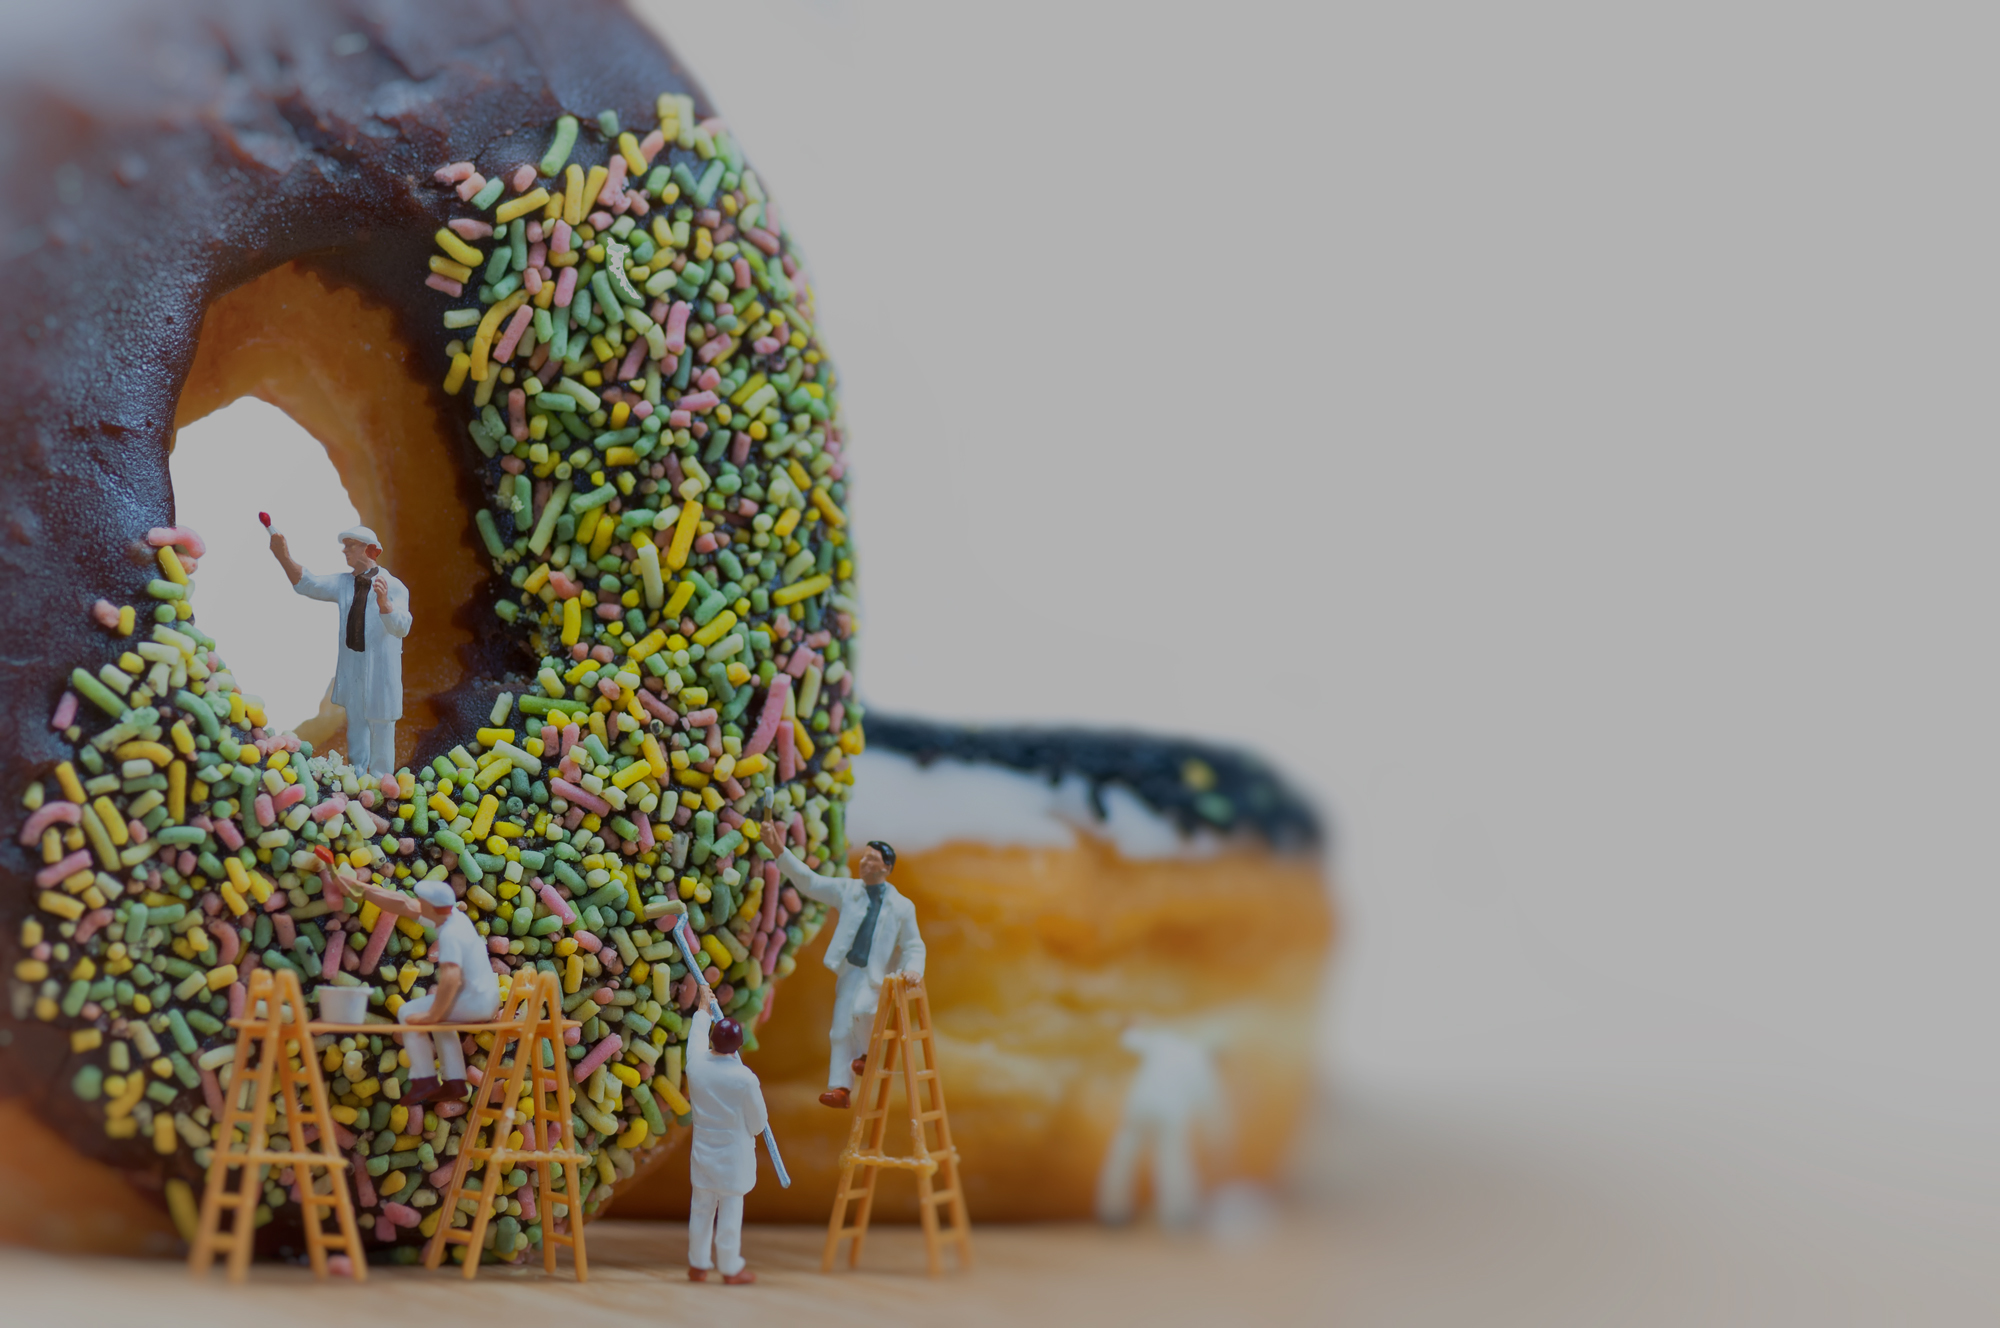
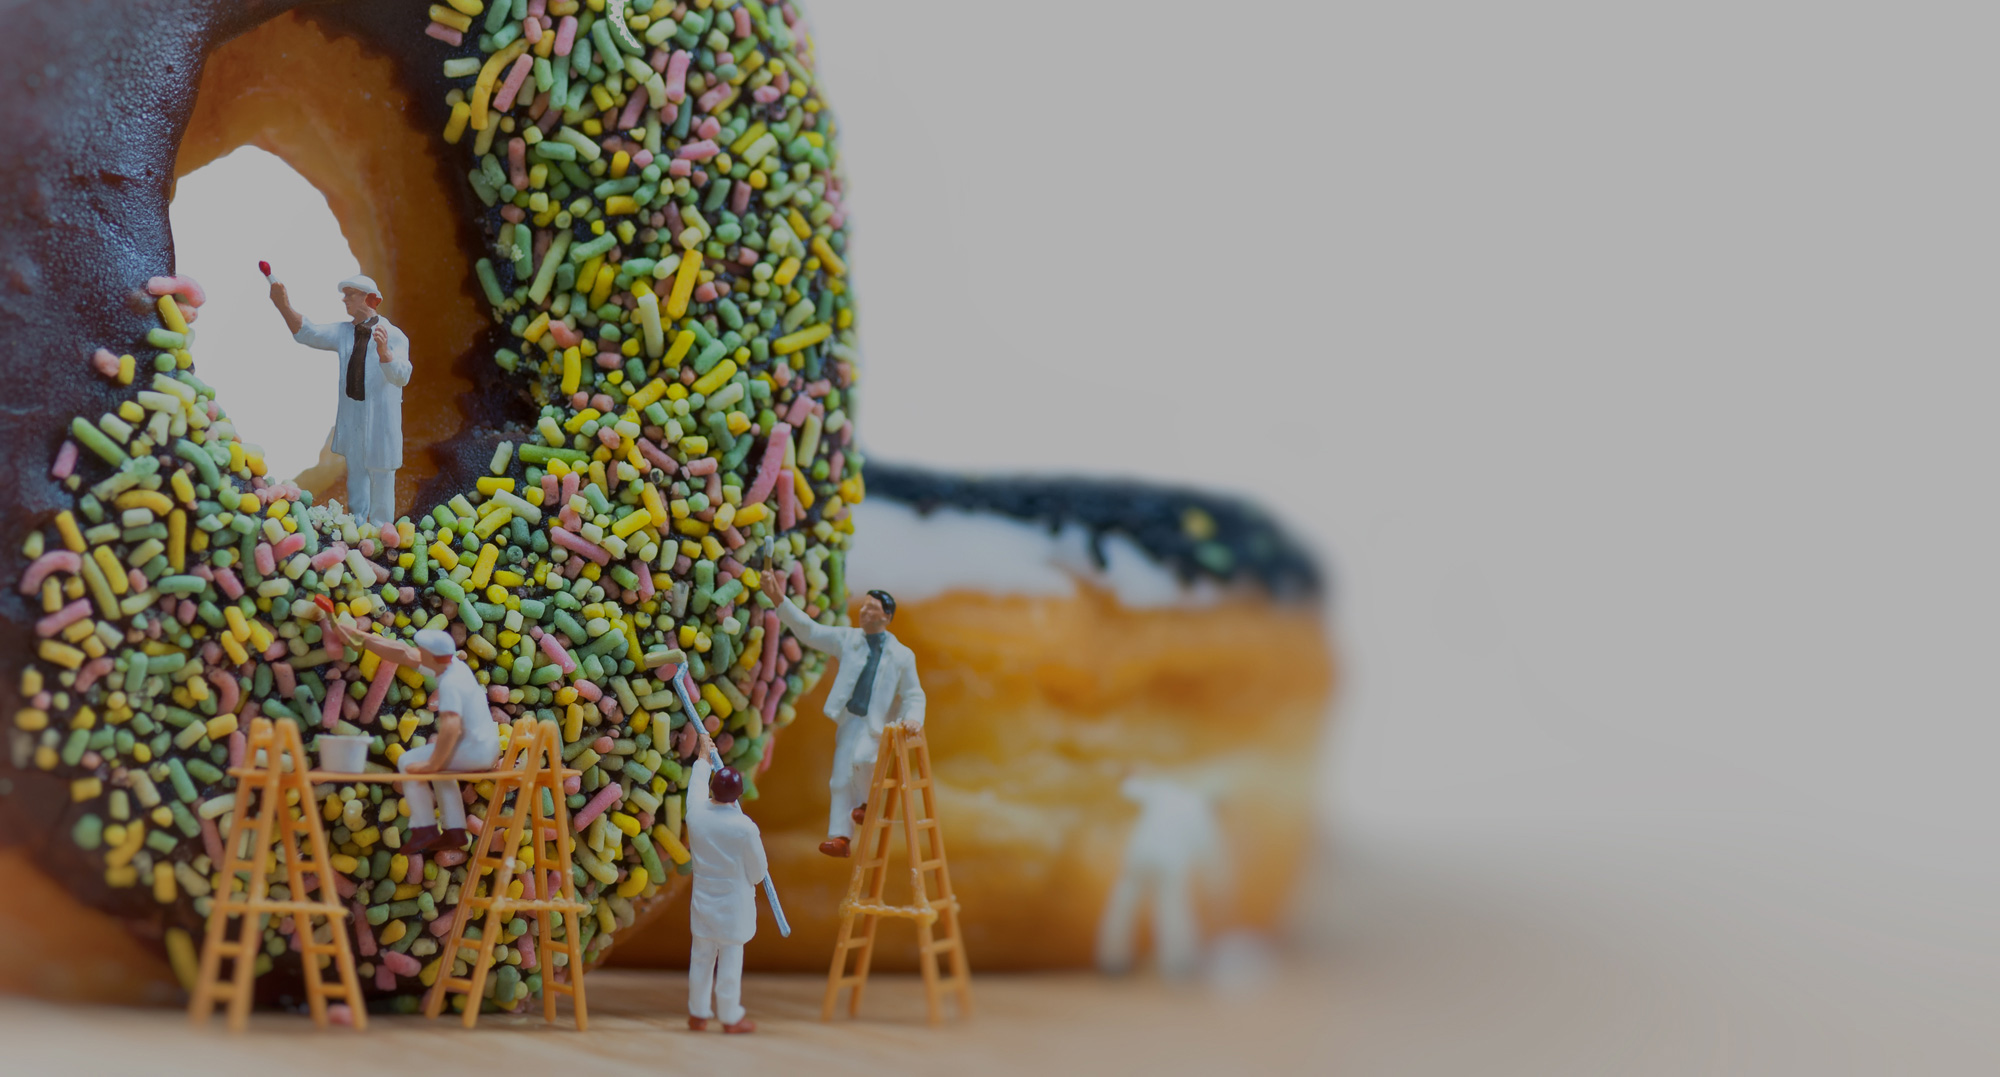
updating homepage image

diff --git a/app/assets/javascripts/welcome.js b/app/assets/javascripts/welcome.js
@@ -37,7 +37,7 @@ $(document).ready(function() {
         IEVersion = getInternetExplorerVersion();
 
     if (viewPortWidth = getViewport()[0], viewPortHeight = getViewport()[1], widthIsWide = viewPortWidth > 768, IEVersion = getInternetExplorerVersion(), widthIsWide) {
-        var a = (viewPortHeight * .66666667) + "px",
+        var a = (viewPortHeight * .75) + "px",
             b = $(".navbar").outerHeight();
         $(".masthead").each(function() {
             $(this).css("height", a), $(this).css("visibility", "visible").css("opacity", "1");
